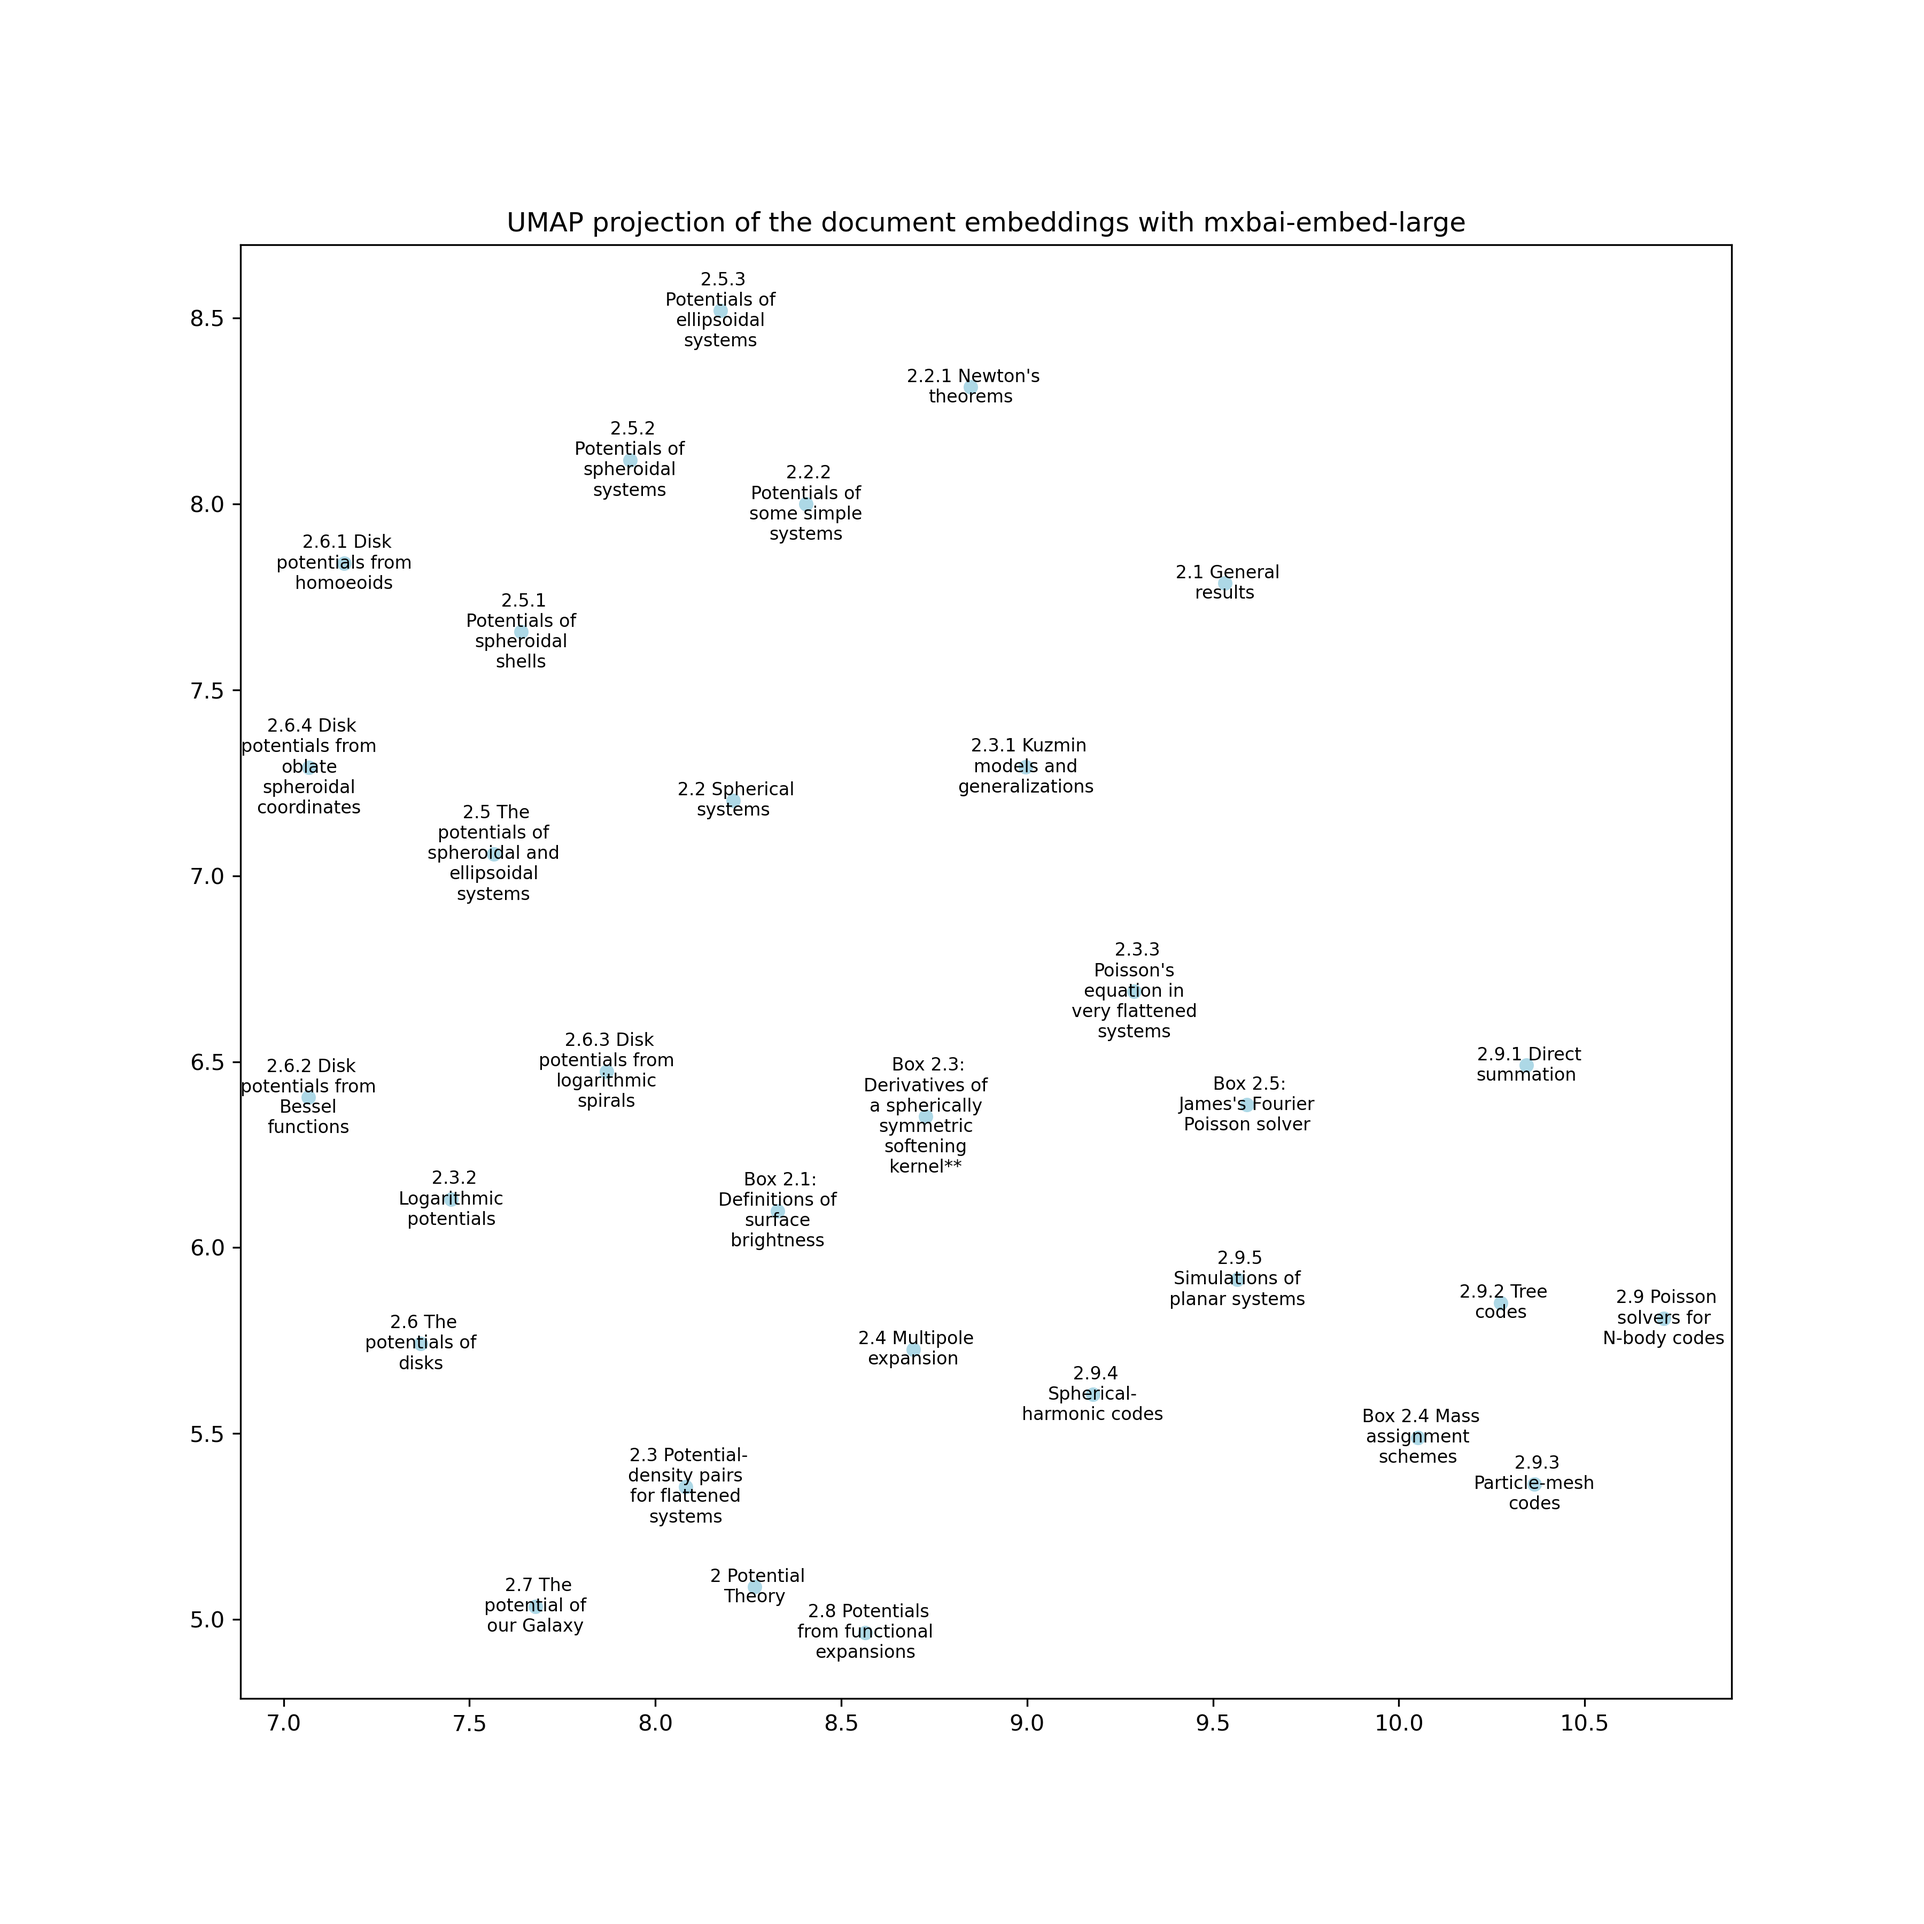
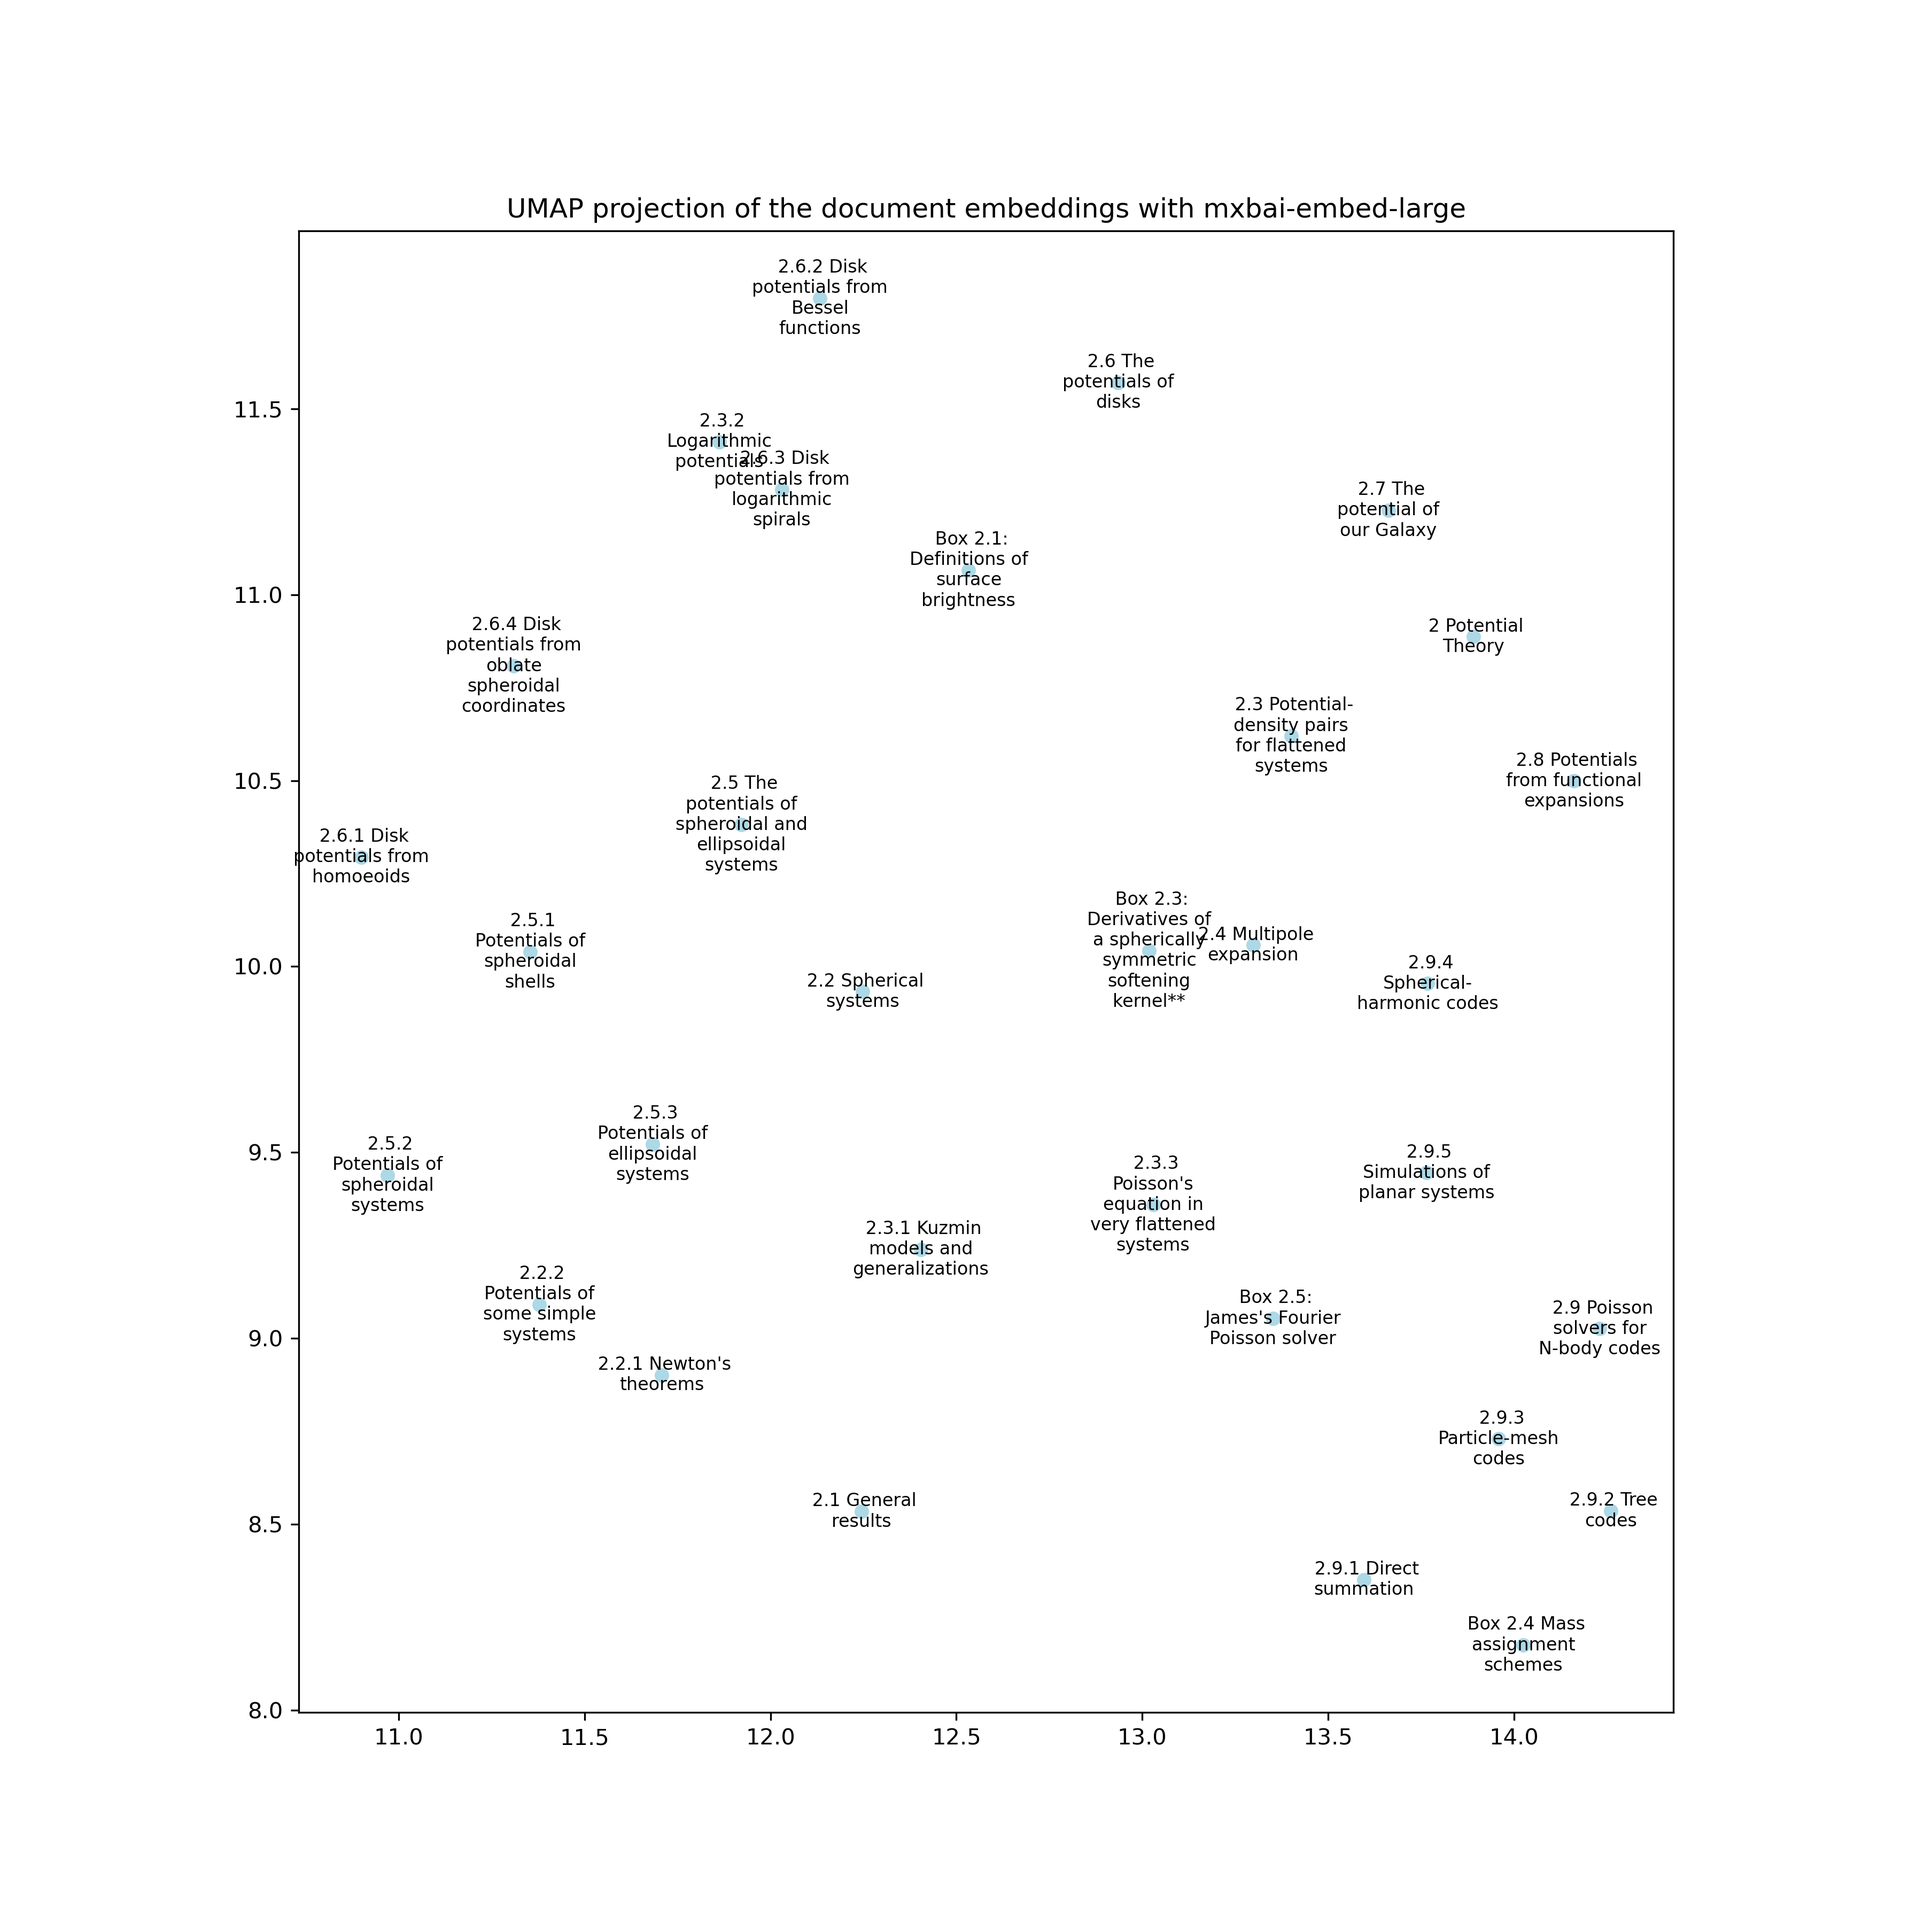
upate

diff --git a/visualise_embedding.py b/visualise_embedding.py
@@ -39,7 +39,7 @@ def most_common_word(chunk):
 
 #embedding_model = 'sentence-transformers/all-MiniLM-L6-v2'
 caches_dir = '/home/hgolawska/llm_summer_project/caches'
-filename = './work/pdf_to_txt/output/Binney_and_Tremaine_chap2_cleaned.mmd'
+filename = './work/pdf_to_txt/output/Binney_and_Tremaine_chap2.mmd'
 
 chunk_size = 250
 chunk_overlap = 50
@@ -64,6 +64,12 @@ chunks = [chunk for chunk in chunks if chunk]
 # use the first line of each chunk as the label
 labels = [chunk.split('\n')[0] for chunk in chunks]
 #print(labels[:10])  # print the first 10 labels for debugging
+# count the number of words in each chunk
+words = [len(chunk.split()) for chunk in chunks] 
+print('maximum number of words in a chunk:', max(words))
+print('minimum number of words in a chunk:', min(words))
+print('average number of words in a chunk:', sum(words) / len(words))
+
 
 
 # print(chunks[0])  # print the first chunk
@@ -109,4 +115,4 @@ for i in range(0, flat_embeddings.embedding_.shape[0]):
             verticalalignment='center',
            )
 plt.title('UMAP projection of the document embeddings with mxbai-embed-large')
-plt.savefig('work/plots/umap_projection_headings_mxbai-embed-large.png', dpi=300)
+plt.savefig('work/plots/umap_projection_headings_mxbai-embed-large_not_cleaned.png', dpi=300)
